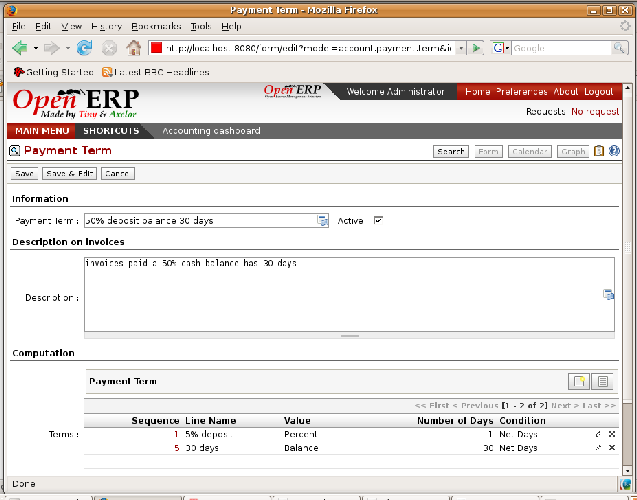
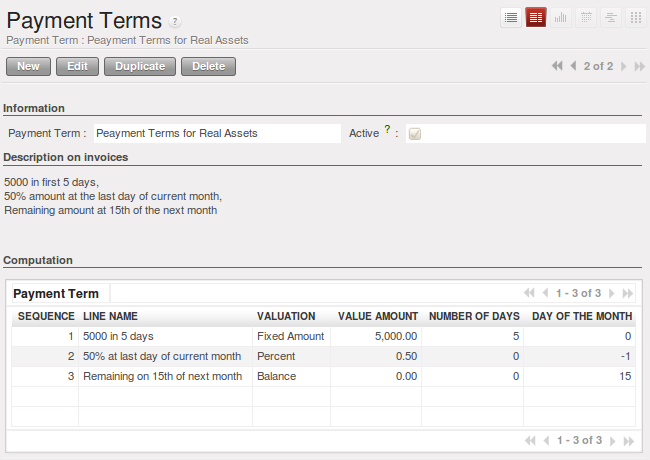
[IMP]: Accounting: Configuring Accounts from A to Z --> Payment Terms.

Changed region(s): [[0.0, 0.0, 1.0, 1.0], [0.0895, 0.8522, 0.1193, 0.8826]]

diff --git a/3/3_9/payment_terms.rst b/3/3_9/payment_terms.rst
@@ -7,11 +7,11 @@ Payment Terms
 You can define whatever payment terms you need in Open ERP. Payment terms determine the due dates
 for paying an invoice.
 
-To define new payment terms, use the menu :menuselection:`Financial Management --> 
-Configuration --> Payment Terms` and then click :guilabel:`New`.
+To define new payment terms, use the menu :menuselection:`Accounting -->
+Configuration --> Miscellaneous --> Payment Terms` and then click :guilabel:`New`.
 
-The figure below represents the following payment term: 35% on delivery, the balance 15 days after
-the end of the month.
+The figure below represents the following payment term: 5000 within 5 days, 50% payment at the last day of current month,
+Remaining on 15th of next month.
 
 .. figure::  images/account_payment_term.png
    :scale: 50
@@ -24,33 +24,31 @@ you put in the field :guilabel:`Description` is used on invoices, so enter a cle
 the payment terms there.
 
 Then create individual lines for calculating the terms in the section :guilabel:`Payment Term`. You
-must give each line a name (:guilabel:`Line Name`). These give an informative title and don't affect
+must give each line a name (:guilabel:`Line Name`). These give an informative title and do not affect
 the actual calculation of terms. The :guilabel:`Sequence` field lets you define the order in which
 the rules are evaluated.
 
-The :guilabel:`Value` field enables you to calculate the amount to pay for each line:
+The :guilabel:`Valuation` field enables you to calculate the amount to pay for each line:
 
 * :guilabel:`Percent` : the line corresponds to a percentage of the total amount, the factor being
-  given in :guilabel:`Amount`. The number indicated in the Amount must take a value between 0 and 1.
+  given in :guilabel:`Value Amount`. The number indicated in the Amount must take a value between 0 and 1.
 
-* :guilabel:`Fixed amount` : this is a fixed value given by the :guilabel:`Amount` box.
+* :guilabel:`Fixed Amount` : this is a fixed value given by the :guilabel:`Value Amount` box.
 
 * :guilabel:`Balance` : indicates the balance remaining after accounting for the other lines.
 
 Think carefully about setting the last line of the calculation to \ ``Balance``\   to avoid rounding
 errors. The highest sequence number is evaluated last.
 
-The two last fields, :guilabel:`Number of Days` and :guilabel:`Condition`, enable the calculation of
-the delay in payment for each line, The delay :guilabel:`Condition` can be set to \ ``Net Days``\
-or \ ``End of Month``\  . For example if you set it to 15 days from the end of the month Open ERP
-adds 15 days to today's date and then sets the payment date to be the end of the month that the new
-date is in. So the payment date for 15 days from month end will be:
+The two last fields, :guilabel:`Number of Days` and :guilabel:`Day of the Month`, enable the calculation of
+the delay in payment for each line, The delay :guilabel:`Day of the Month` can be set to \ ``-1``\,\ ``0``\
+or \ ``Any Positive Number``\  . For example today is 20 December 2010, if you want to set payment terms like this.
 
-* 31 January if today is 5 January,
+* :guilabel:`5000 within 5 days` then set `Valuation` is Fixed Amount, `Number of Days` 5 and  `Day of the Month` is 0 that creates journal entry for date 25th December 2010.
+* :guilabel:`50% payment at the last day of current month` then set `Valuation` Percent, `Number of Days` 0 and  `Day of the Month` is -1 that creates journal entry for date 31th December 2010.
+* :guilabel:`Remaining on 15th of next month` then set `Valuation` Balance, `Number of Days` 0 and  `Day of the Month` is 15 that creates journal entry for date 15th January 2011.
 
-* 28 February if today is 20 January.
-
-You can then add payment terms to a Partner through the :guilabel:`Properties` on the partner form.
+You can then add payment terms to a Partner through the tab :guilabel:`Accounting` on the partner form.
 
 .. Copyright © Open Object Press. All rights reserved.
 

diff --git a/3/3_9/periods_and_fiscal_years.rst b/3/3_9/periods_and_fiscal_years.rst
@@ -41,7 +41,7 @@ Closing a Financial Year
 ------------------------
 
 To close the end the year, use the menu :menuselection:`Accounting--> Periodical Processing --> End of Period --> Close a Fiscal Year`.
-A form opens asking you for the essential information it needs
+A wizard opens asking you for the essential information it needs
 to close the following year.
 
 When the year is closed you can no longer create or modify any financial transactions in that year.
